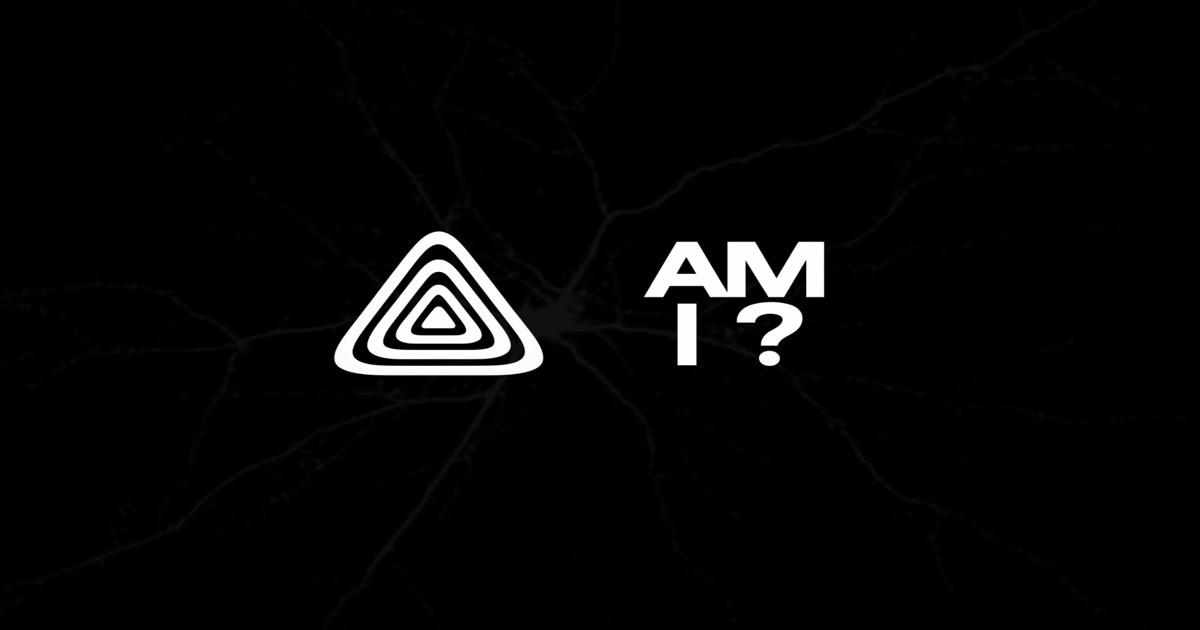
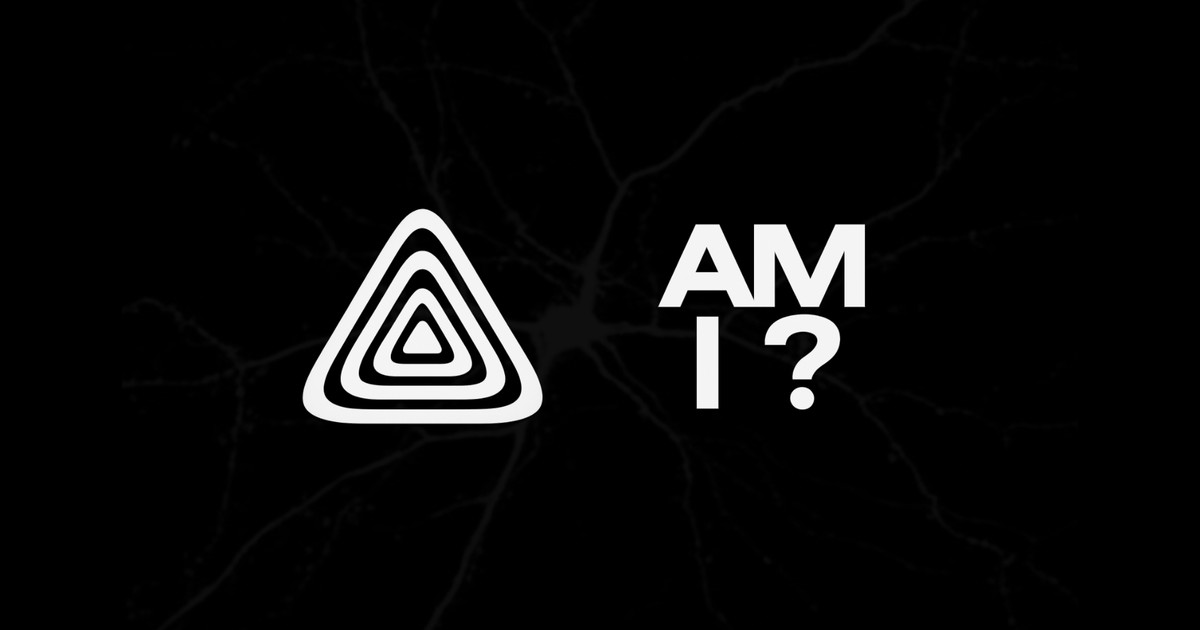
Update Open Graph and Twitter meta tags in index.html to reflect new title "Evolution didn't end with us." Also, updated the og-image.jpg file for consistency with the documentary's branding.

Changed region(s): [[0.2467, 0.3317, 0.4625, 0.6937], [0.5242, 0.3317, 0.74, 0.6635]]

diff --git a/index.html b/index.html
@@ -15,12 +15,12 @@
   <!-- Open Graph / Social -->
   <meta property="og:type" content="website" />
   <meta property="og:url" content="https://am-i.org" />
-  <meta property="og:title" content="We Might Be Building Life. We Just Don't Know Yet." />
+  <meta property="og:title" content="Evolution didn't end with us." />
   <meta property="og:description" content="The only documentary inside the labs asking whether AI is already conscious. Rare access. The question that changes everything." />
   <meta property="og:image" content="https://am-i.org/og-image.jpg" />
   <meta name="twitter:card" content="summary_large_image" />
   <meta name="twitter:domain" content="am-i.org" />
-  <meta name="twitter:title" content="We Might Be Building Life. We Just Don't Know Yet." />
+  <meta name="twitter:title" content="Evolution didn't end with us." />
   <meta name="twitter:description" content="The only documentary inside the labs asking whether AI is already conscious. Rare access. The question that changes everything." />
   <meta name="twitter:image" content="https://am-i.org/og-image.jpg" />
 
